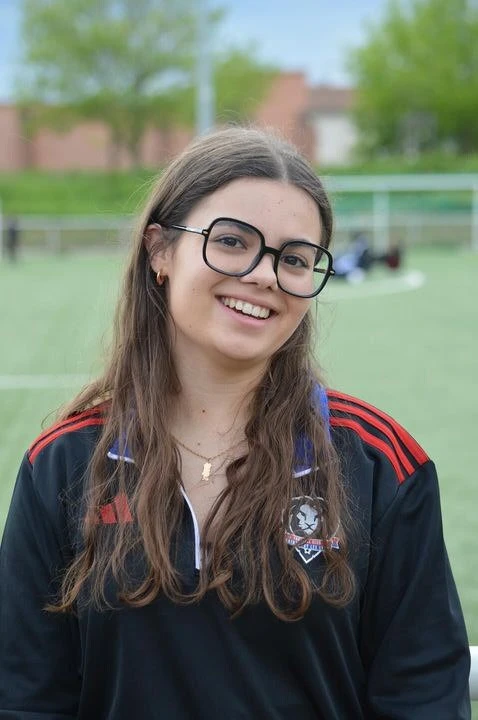
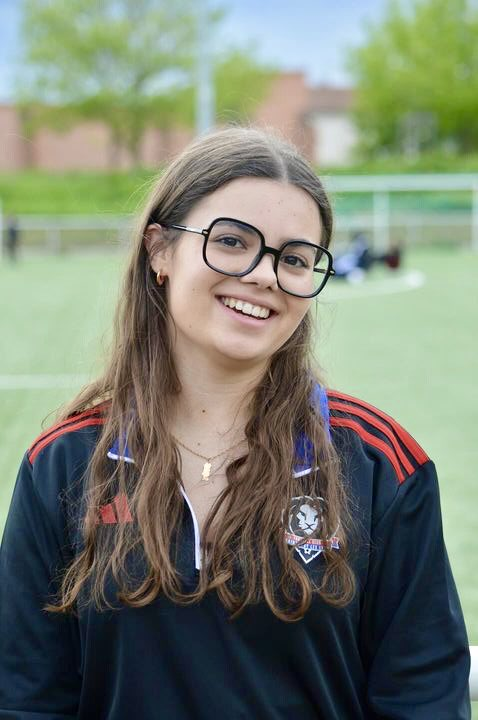
Optimize images + add links

diff --git a/src/Data/Data.js b/src/Data/Data.js
@@ -20,9 +20,9 @@ import fernoux from "../assets/lucas-fernoux.webp"
 
 export const navLinks = [
     {label:"Accueil",href:"/"},
-    {label:"Boutique",href:"#about"},
-    {label:"Galerie Photo",href:"/"},
-    {label:"Sponsoring",href:"/"},
+    {label:"Boutique",href:"/shop"},
+    {label:"Galerie Photo",href:"/photo"},
+    {label:"Sponsoring",href:"/sponsoring"},
     {label:"Nous contacter",href:"/contact"},
 ]
 
@@ -156,19 +156,19 @@ export const footer = [
     {
         title:"LIENS",
         footerLinks:[  
-            {link:"Accueil"},
-            {link:"Boutique"},
-            {link:"Galerie Photo"},
-            {link:"Sponsoring"},
-            {link:"Nous contacter"},
+            {label:"Accueil", href:"/"},
+            {label:"Boutique", href:"/shop"},
+            {label:"Galerie Photo", href:"/photo"},
+            {label:"Sponsoring", href:"/sponsoring"},
+            {label:"Nous contacter", href:"/contact"},
         ]
     },
     {
         title:"PARTENAIRES",
         footerLinks:[
-            {link:"OL"},
-            {link:"Crédit Mutuel"},
-            {link:"Région Auvergne Rhône Alpes"},
+            {label:"OL", href:"/partenaire"},
+            {label:"Crédit Mutuel", href:"/partenaire"},
+            {label:"Région Auvergne Rhône Alpes", href:"/partenaire"},
         ]
     }
 ]

diff --git a/src/Components/Gallery.js b/src/Components/Gallery.js
@@ -1,6 +1,7 @@
 import React from 'react'
 
 import {AiOutlineArrowRight} from "react-icons/ai"
+import {Link} from "react-router-dom";
 
 const Gallery = () => {
   return (
@@ -9,7 +10,9 @@ const Gallery = () => {
       <div className=' group h-screen row-span-2 col-span-2 max-lg:row-span-2 max-lg:h-[49vh] relative bg-gallery-pattern1 after:absolute after:top-0 after:left-[-100%] hover:after:left-0 after:w-full after:h-full after:bg-gradient-to-r from-black bg-cover bg-center max-sm:row-span-1 max-sm:col-span-1 '>
         <div className='w-full group-hover:left-[50%] duration-300 absolute top-[50%] left-[-50%] translate-x-[-50%] translate-y-[-50%] text-center z-10'>
           <div className=' bg-[#d73523] rounded-full p-4 max-lg:p-2 text-white text-2xl mb-7 max-lg:mb-3 w-fit m-auto cursor-pointer hover:bg-white hover:text-[#d73523] duration-300'>
-            <AiOutlineArrowRight />
+            <Link to={"photo"}>
+                <AiOutlineArrowRight />
+            </Link>
           </div>
           <h1 className=' text-4xl text-white font-medium mb-2'>Voir plus</h1>
           <p className=' font text-xl text-slate-200 '>Toutes les photos</p>

diff --git a/src/Components/HeroSection.js b/src/Components/HeroSection.js
@@ -1,6 +1,7 @@
 import React from 'react'
 import { motion } from 'framer-motion'
 import {MdKeyboardArrowDown} from "react-icons/md";
+import {Link} from "react-router-dom";
 
 
 const HeroSection = () => {
@@ -31,10 +32,10 @@ const HeroSection = () => {
           <h1>BIENVENUE</h1>
         </div>
 
-        <button className=' py-4 px-7 text-xl group relative text-white bg-[#d73523] rounded-sm'>
+        <Link to={"/contact"} className=' py-4 px-7 text-xl group relative text-white bg-[#d73523] rounded-sm'>
           <div className=' buttonDiv'></div>
           <span className='buttonSpan'>DEVENIR LICENCIÉ</span>
-        </button>
+        </Link>
       </motion.div>
       <motion.div
           initial={{y:0}}

diff --git a/src/Components/Footer.js b/src/Components/Footer.js
@@ -21,8 +21,8 @@ const Footer = ({nav}) => {
           <div key={val.title}>  
             <h1 className=' text-2xl font-medium mb-8'>{val.title}</h1>
               {val.footerLinks.map((li)=>(
-                <ul key={li.link} className=' mb-3'>
-                  <li className=' text-xl tracking-wide text-gray-400 font font-thin hover:translate-x-1 duration-300'><a href="#home">{li.link}</a></li>
+                <ul key={li.label} className=' mb-3'>
+                  <li className=' text-xl tracking-wide text-gray-400 font font-thin hover:translate-x-1 duration-300'><Link to={li.href}>{li.label}</Link></li>
                 </ul>
               ))}
           </div>

diff --git a/src/Components/Offer.js b/src/Components/Offer.js
@@ -1,4 +1,5 @@
 import React from 'react'
+import {Link} from "react-router-dom";
 
 const Offer = () => {
   return (
@@ -8,10 +9,10 @@ const Offer = () => {
           <h1>Pour un style incomparable 👌🏻</h1>
         </div>
 
-          <button className=' py-4 px-9 text-xl group relative text-white bg-[#d73523] rounded-sm font-semibold'>
+          <Link to={"shop"} className=' py-4 px-9 text-xl group relative text-white bg-[#d73523] rounded-sm font-semibold'>
             <div className=' buttonDiv'></div>
             <span className='buttonSpan'>Explorez notre boutique</span>
-          </button>
+          </Link>
       </div>
     </section>
   )
